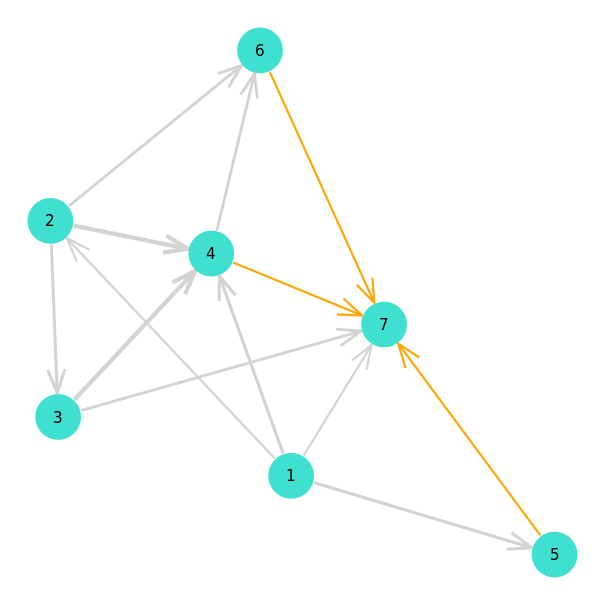
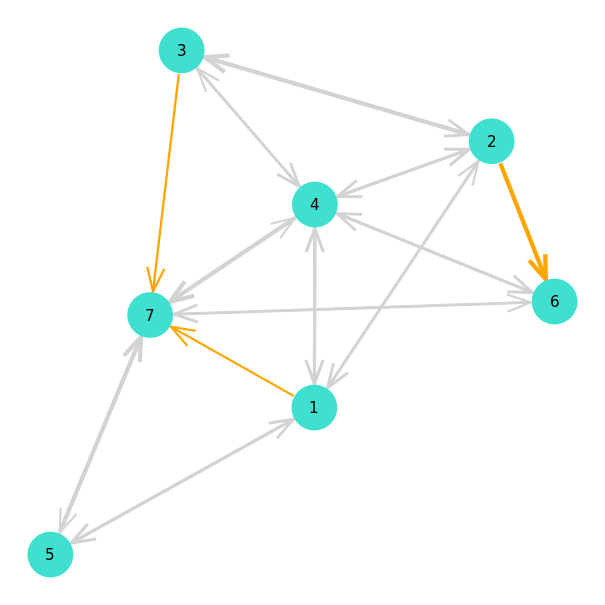
solution illustration and docs

diff --git a/docs/src/mcf/plot.md b/docs/src/mcf/plot.md
@@ -2,6 +2,9 @@
 
 Plotting MCF problems is done by using the _GraphPlot.jl_ package. A plot can be generated through use of the [`mcfplot(pb::MCF, layout::Function=spring_layout)`](@ref) function. 
 
+
+## Instances 
+
 ```julia
 julia> pb = load("instances/toytests/test1/", edge_dir=:single)
 MCF(nv = 7, ne = 10, nk = 3)
@@ -15,6 +18,29 @@ julia> draw(PNG("test1.png", 16cm, 16cm), mcfplot(pb))
 ```
 
 ![toytesttest1](../assets/img/toytest_test1.png)
+
+
+## Solution
+
+It is possible to use `MultiFlows.graph_with_demand_edges(pb::MCF)` to create a directed graph with edges added between demand endpoints. This can be usefull when generating layout locations and drawing consistent problem and solution plots.
+
+```julia
+julia> using GraphPlot
+
+julia> g = MultiFlows.graph_with_demand_edges(pb)
+{7, 23} directed simple Int64 graph
+
+julia> loc_x, loc_y = spring_layout(g);
+```
+
+We can now plot the graph with solution edges outlined : 
+```julia
+julia> draw(PNG("test1_solution.png", 16cm, 16cm), mcfsolplot(sol, pb, loc_x, loc_y))
+```
+
+![toytesttest1sol](../assets/img/toytest_test1_solution.png)
+
+Note that `mcfsolplot` can also be called without the `loc_x,loc_y` arguments : `mcfsolplot(sol, pb)`. 
 
 ## Index
 
